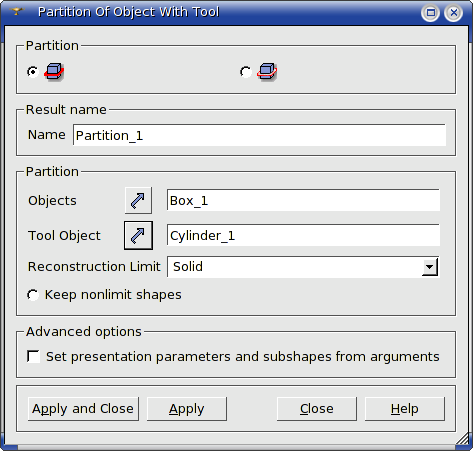
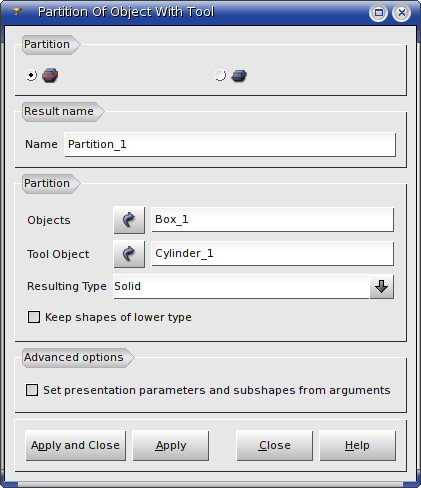
0016654: EDF PAL 529: Improve comprehension of partition dialog box

Changed region(s): [[0.0, 0.0, 1.0, 1.0]]

diff --git a/src/GEOMGUI/GEOM_msg_en.ts b/src/GEOMGUI/GEOM_msg_en.ts
@@ -1178,7 +1178,7 @@ Please, select face, shell or solid and try again</translation>
         </message>
         <message>
             <source>GEOM_RECONSTRUCTION_LIMIT</source>
-            <translation>Reconstruction Limit</translation>
+            <translation>Resulting Type</translation>
         </message>
         <message>
             <source>GEOM_RECONSTRUCTION_LIMIT_EDGE</source>
@@ -1831,6 +1831,10 @@ Please, select face, shell or solid and try again</translation>
         <message>
             <source>GEOM_WRN_WARNING</source>
             <translation>Warning</translation>
+        </message>
+        <message>
+            <source>WRN_SHAPE_UNCLOSED</source>
+            <translation>Unable to create solid from unclosed shape %1</translation>
         </message>
         <message>
             <source>GEOM_X</source>
@@ -3350,7 +3354,7 @@ Please, select face, shell or solid and try again</translation>
         </message>
         <message>
             <source>GEOM_KEEP_NONLIMIT_SHAPES</source>
-            <translation>Keep nonlimit shapes</translation>
+            <translation>Keep shapes of lower type</translation>
         </message>
         <message>
             <source>GEOM_CENTER_2POINTS</source>
